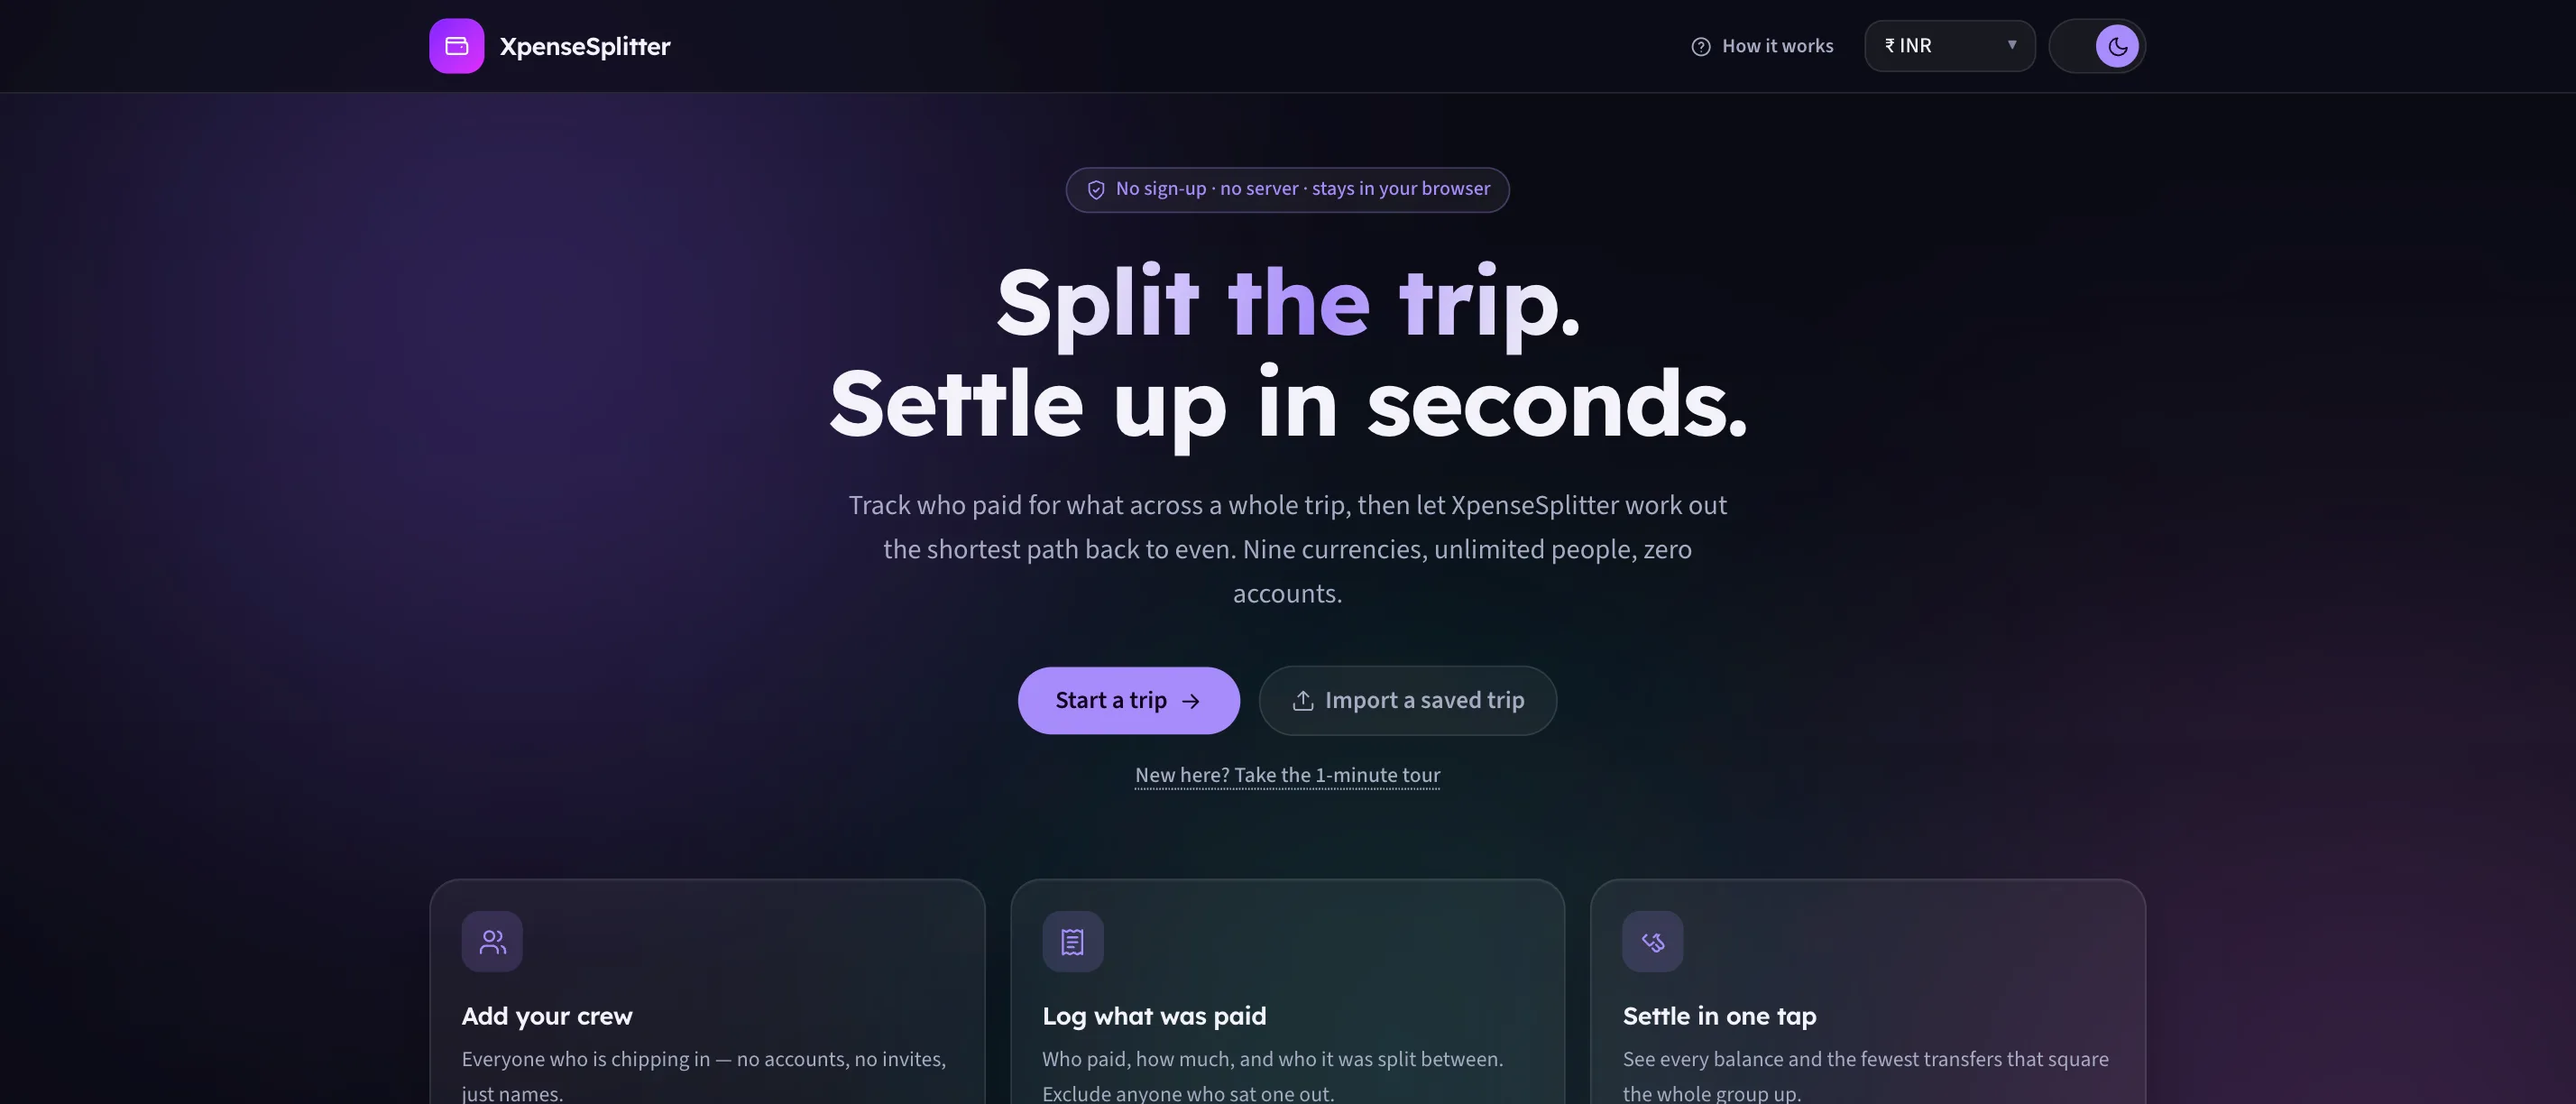
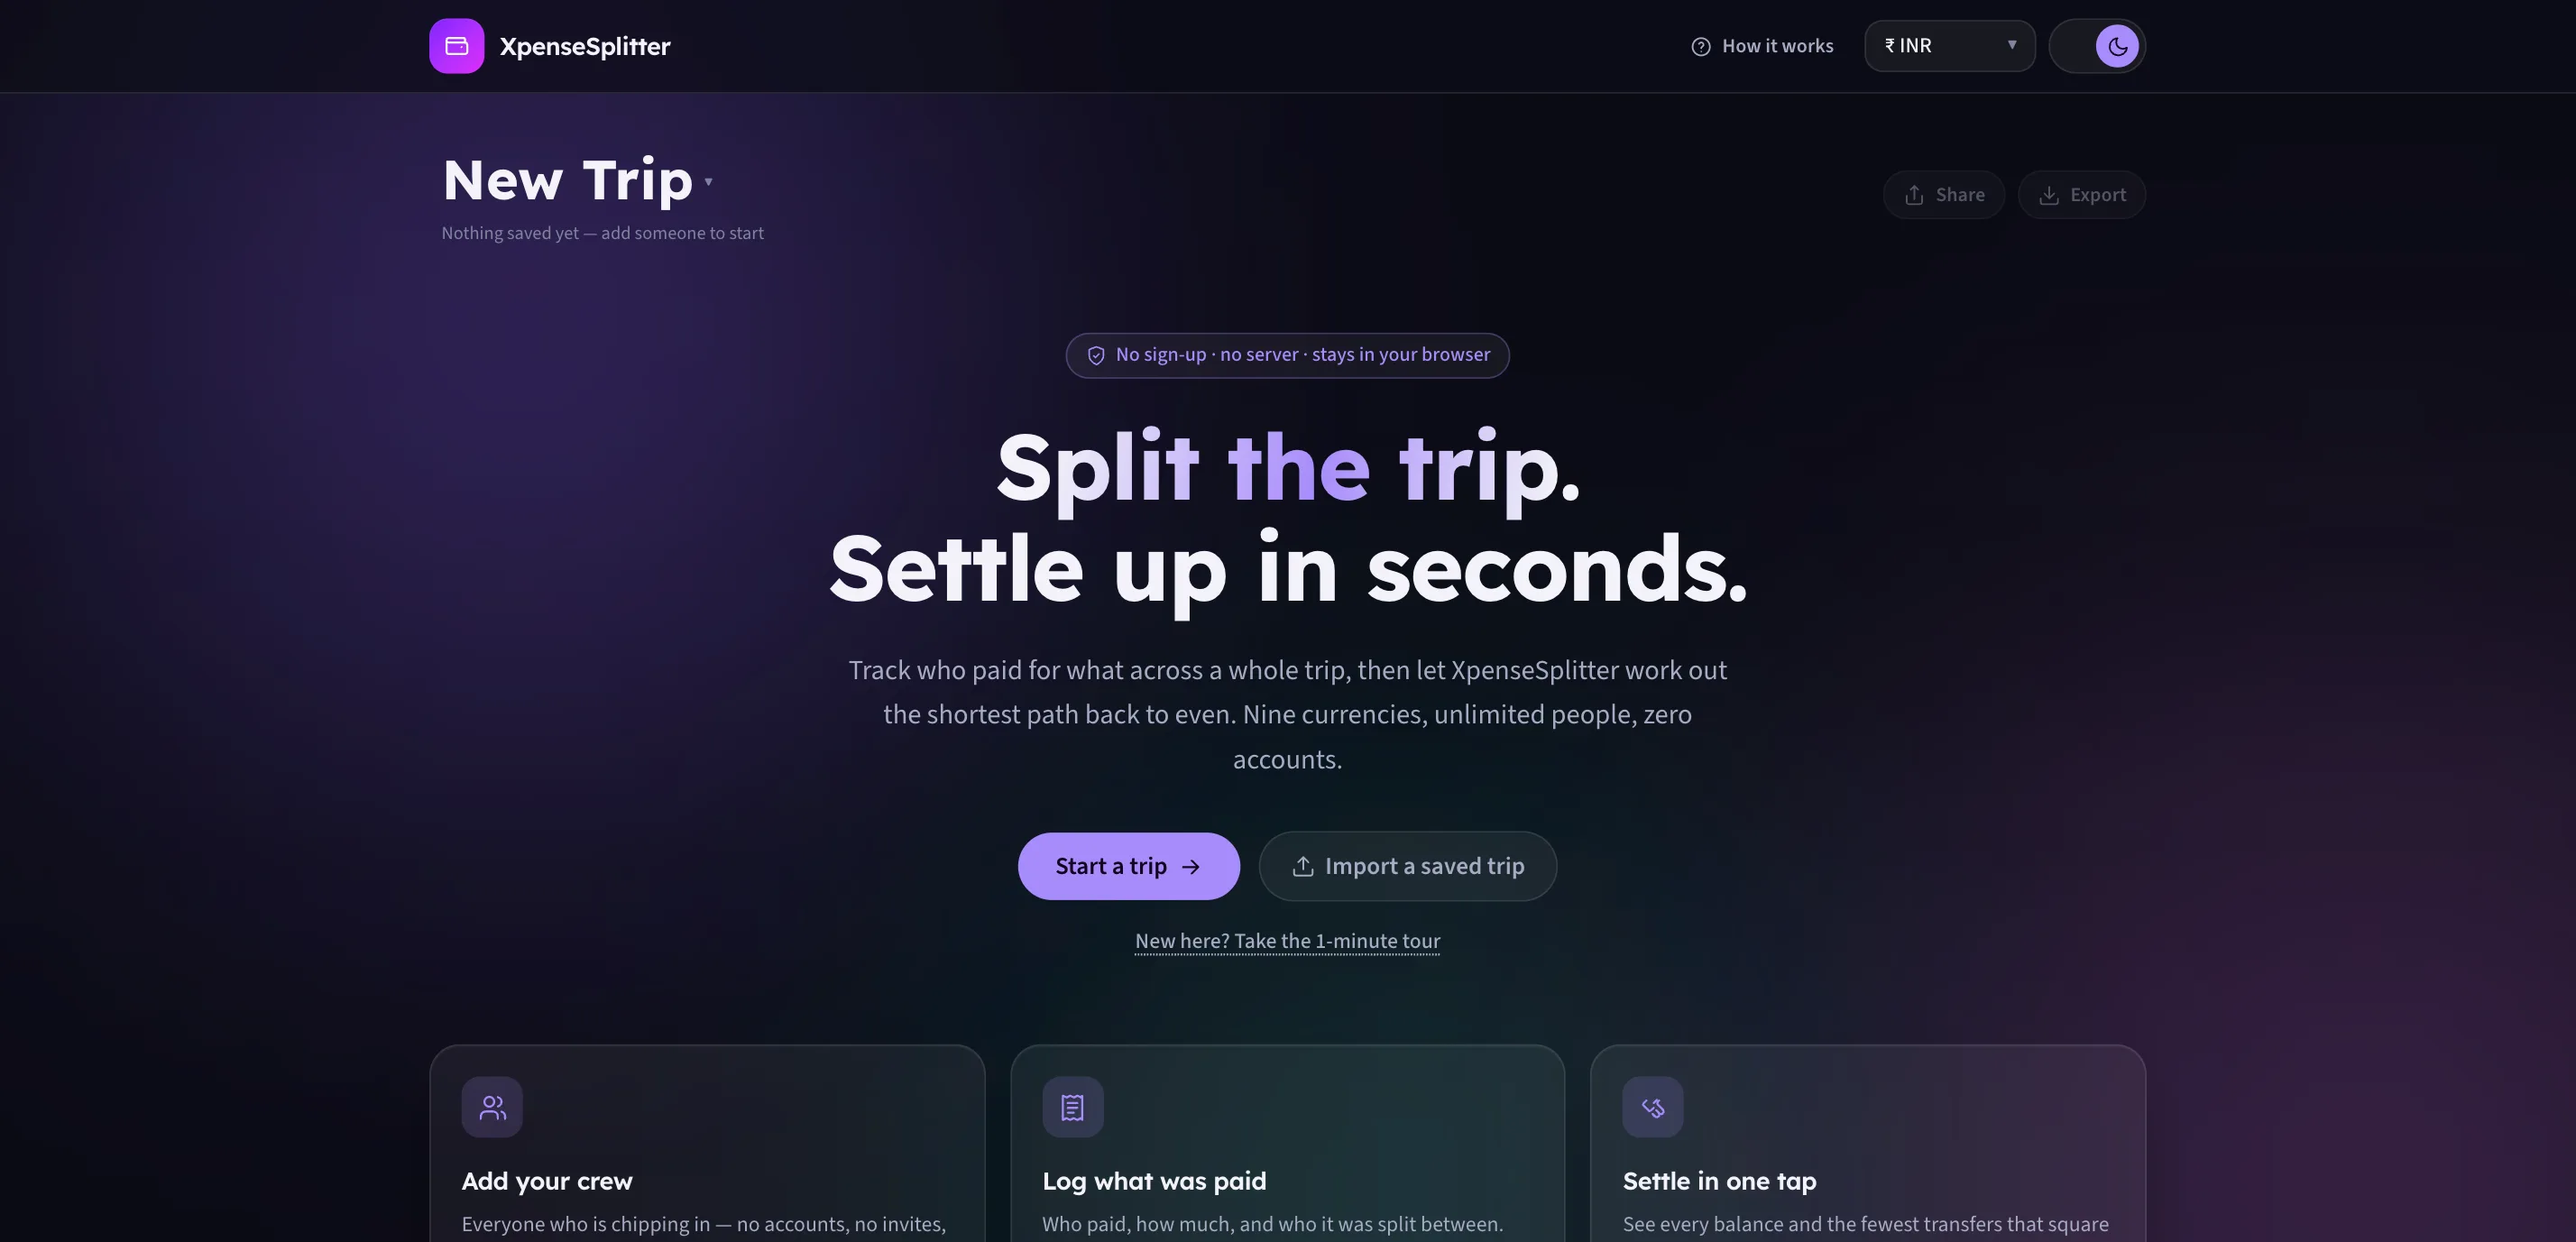
Follow XpenseSplitter to sharing, and say what is interesting about it
The app grew share links, a trip library, zip backups and a version model
since it was written up here. The Lab entry and the CV project both described
an earlier, smaller thing.

Two notes replace the one about deriving rather than storing, which had become
the least surprising claim on the card:

  - A share link carries the trip in its URL fragment, which browsers never
    send to a host. No account, no upload, nothing to expire — and the two
    honest consequences said out loud rather than buried: whoever holds the
    link can read the names and amounts, and it cannot be recalled.
  - Every trip carries a lineage id fixed at creation and inherited by each
    copy, so an arriving link knows which trip it belongs to and which version
    it is. Seven outcomes fall out of that. The edit count behind it advances
    only on ledger actions, so renaming a trip never makes a copy look
    modified.

The identity-mapping and duplicate-detection notes merge into one, because
they are one story: duplicates cannot be found until identity is settled.
Four notes rather than six.

Features drop to the five that still earn the space, now including sharing a
trip as a link and keeping several trips with a zip backup.

On the CV the description mentions the link, and the third highlight becomes
the lineage id — so the trio reads rounding, reconciliation, distributed
versioning rather than ending on a claim any app could make.
[…]

diff --git a/src/sections/Lab.tsx b/src/sections/Lab.tsx
@@ -131,7 +131,7 @@ function LabCard({ item }: { item: LabItem }) {
           height={item.image.height}
           loading="lazy"
           decoding="async"
-          className="aspect-[21/9] w-full border-b border-line/90 object-cover object-top"
+          className="aspect-[21/9] w-full border-b border-line/90 object-cover object-bottom"
         />
       ) : null}
 
